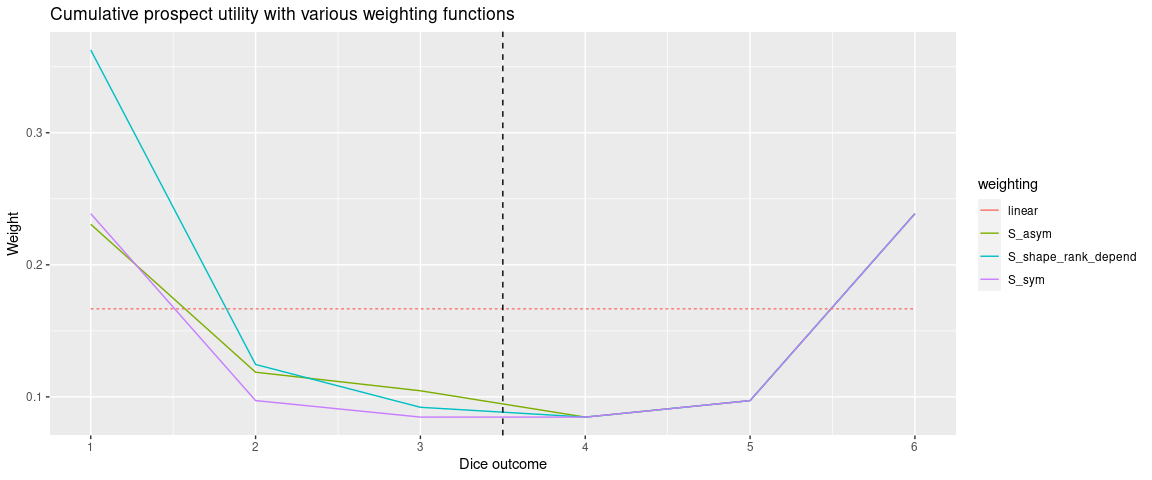
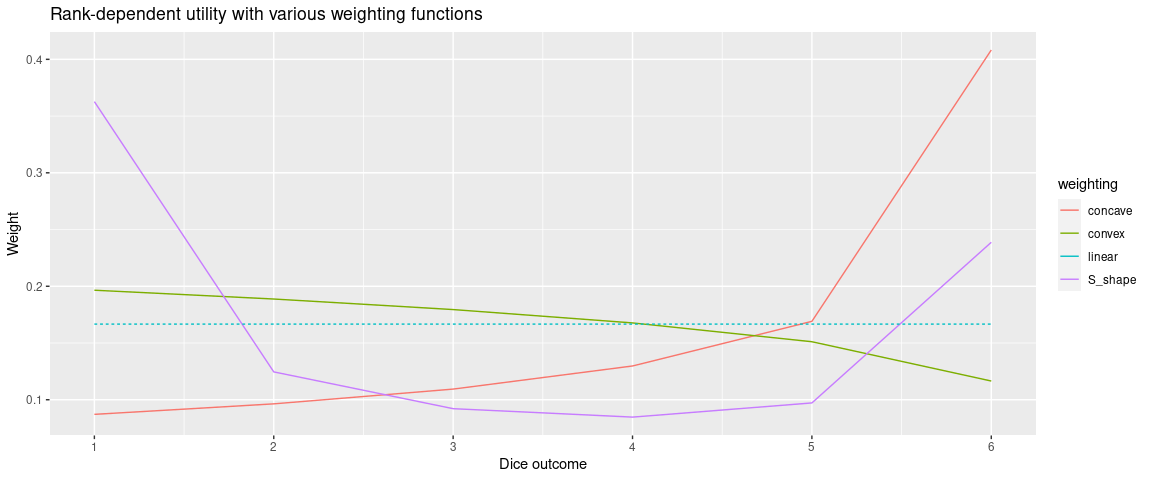
Add cumulative

diff --git a/Cumulative_prospect_visu/README.md b/Cumulative_prospect_visu/README.md
@@ -1,6 +1,6 @@
 ---
-title: "Untitled"
-author: "Prospect functions: illustration"
+title: "Prospect functions: illustration"
+author: "Mat"
 date: "11/5/2020"
 output:
   html_document:
@@ -19,6 +19,12 @@ I am just trying to understand the intuition behind the cumulative prospect theo
 2. Use different weights for gain/losses and a different formulation of the probabilities? 
 
 Case study: fair dice with equi-probability 1/6. Values 1 to 3 lead to a loss, values 4:6 to a gain. This is as in Tversky-Kahneman (1993), although for now I don't consider differences the outcomes they attribute to 1 to 6.
+
+
+```r
+library(tidyverse)
+```
+
 
 ## Rank dependent utility
 
@@ -42,10 +48,11 @@ df_rank_depend%>%
   geom_line(aes(linetype=type))+
   scale_x_continuous(breaks=1:6)+
   xlab("Dice outcome")+ylab("Weight")+
-   scale_linetype(guide = 'none')
+  scale_linetype(guide = 'none')+
+  ggtitle("Rank-dependent utility with various weighting functions")
 ```
 
-![](prospect_utility_VISU_files/figure-html/unnamed-chunk-1-1.png)<!-- -->
+![](prospect_utility_VISU_files/figure-html/unnamed-chunk-2-1.png)<!-- -->
 
 ## Prospect theory
 
@@ -53,19 +60,21 @@ df_rank_depend%>%
 ```r
 weight_S_minus <- function(p, gam=0.69) p^gam /(p^gam +(1-p)^gam)^(1/gam)
 
-tibble(outcome=1:6,
+df_prospect <- tibble(outcome=1:6,
        gain=c(-5, -3, -1, 2, 4, 6),
        prob = 1/6,
        prob_cum = if_else(gain<0, cumsum(prob), rev(cumsum(prob))),
-       prob_cum_lag = if_else(gain<0,
+       prob_cum_lead = if_else(gain<0,
                               dplyr::lag(prob_cum, default=0),
                               dplyr::lead(prob_cum, default=0)),
-       dec_linear = prob_cum-prob_cum_lag,
-       dec_S_sym = weight_S(prob_cum)-weight_S(prob_cum_lag),
+       dec_linear = prob_cum-prob_cum_lead,
+       dec_S_sym = weight_S(prob_cum)-weight_S(prob_cum_lead),
        dec_S_asym =  if_else(gain<0,
-                             weight_S_minus(prob_cum)-weight_S_minus(prob_cum_lag),
-                             weight_S(prob_cum)-weight_S(prob_cum_lag))) %>% 
-  mutate(dec_S_shape_rank_depend=df_rank_depend$dec_S_shape) %>% 
+                             weight_S_minus(prob_cum)-weight_S_minus(prob_cum_lead),
+                             weight_S(prob_cum)-weight_S(prob_cum_lead))) %>% 
+  mutate(dec_S_shape_rank_depend=df_rank_depend$dec_S_shape) 
+
+df_prospect%>% 
   pivot_longer(starts_with("dec_"), names_prefix="dec_", names_to="weighting")  %>% 
   mutate(type=weighting=="linear") %>% 
   ggplot(aes(x=outcome, y=value, color=weighting))+
@@ -73,10 +82,40 @@ tibble(outcome=1:6,
   scale_x_continuous(breaks=1:6)+
   xlab("Dice outcome")+ylab("Weight")+
    scale_linetype(guide = 'none')+
-  geom_vline(xintercept = 3.5, linetype=2)
+  geom_vline(xintercept = 3.5, linetype=2)+
+  ggtitle("Cumulative prospect utility with various weighting functions")
 ```
 
-![](prospect_utility_VISU_files/figure-html/unnamed-chunk-2-1.png)<!-- -->
+![](prospect_utility_VISU_files/figure-html/unnamed-chunk-3-1.png)<!-- -->
+
+### Cumulative used
+
+
+```r
+df_probs <- df_rank_depend %>% 
+  select(outcome, starts_with("prob_cum")) %>% 
+  mutate(type="rank dependent theory") %>% 
+  rbind(df_prospect %>% 
+          select(outcome, starts_with("prob_cum")) %>% 
+          mutate(type="cumul prospect theory")) %>% 
+  mutate(type=fct_relevel(type, "rank dependent theory"))
+
+df_probs%>% 
+  ggplot(aes(x=outcome, y=prob_cum))+
+  geom_line()+
+  geom_line(aes(y=prob_cum_lead), linetype=2)+
+  facet_wrap(~type)+
+  ggtitle("Comparing cumulative probabilities")+
+  geom_vline(aes(xintercept=pos),
+             data =tibble(pos=3.5,
+                          type = factor("cumul prospect theory", levels = levels(df_probs$type))),
+             linetype=2, col="blue")
+```
+
+![](prospect_utility_VISU_files/figure-html/unnamed-chunk-4-1.png)<!-- -->
+
+
+
 
 
 
